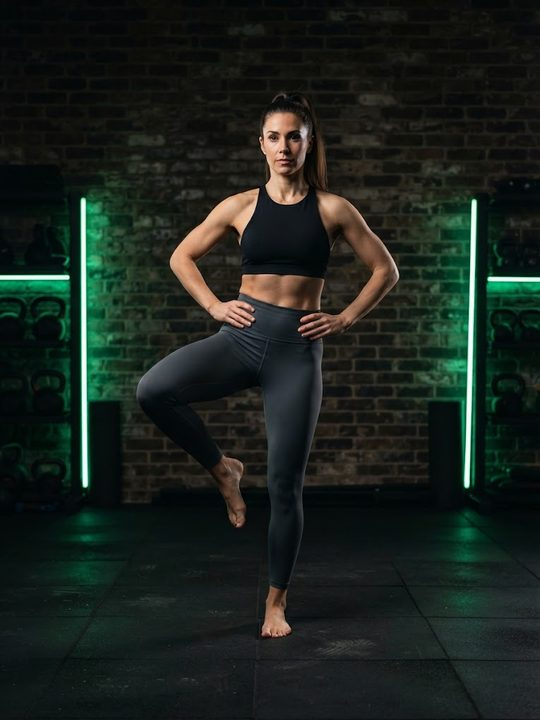
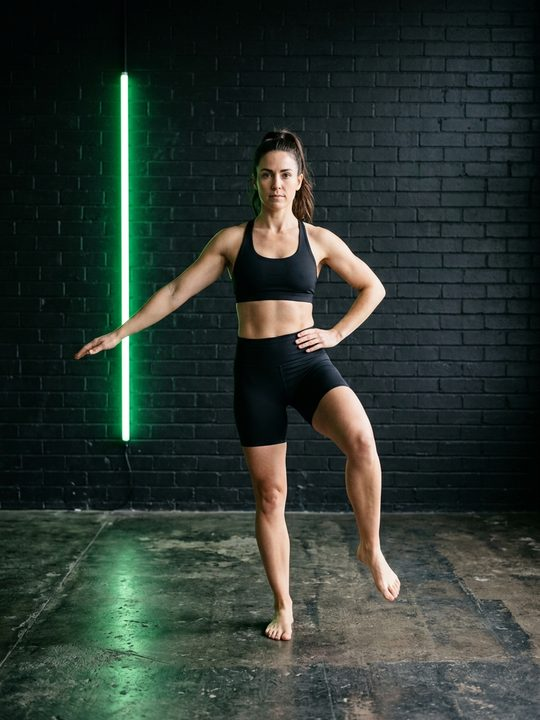
Frauen-GIF standing_hip_circles
Claude-Session: https://claude.ai/code/session_01PvyiLGJFyas6muFwwubScP

diff --git a/script.js b/script.js
@@ -528,7 +528,7 @@ function renderOverview() {
 // V8-04: Wochenplan-Einträge (haben trainingId) sind anklickbar -> Detailseite mit Dauer/Kalorien.
 // V6-08: Verlauf als Foto-Kacheln mit Wochenkopf, Gruppierung nach Woche/Monat.
 let imgSet = new Set();
-fetch('img/index.json?v=327').then(r => r.json()).then(a => { imgSet = new Set(a); }).catch(() => {});
+fetch('img/index.json?v=328').then(r => r.json()).then(a => { imgSet = new Set(a); }).catch(() => {});
 function slugOf(g) { return (g || '').replace(/^gifs\//, '').replace(/\.gif$/, ''); }
 // Foto passend zum Profil (m/w); ohne Foto -> GIF
 function imgOf(ex) {
